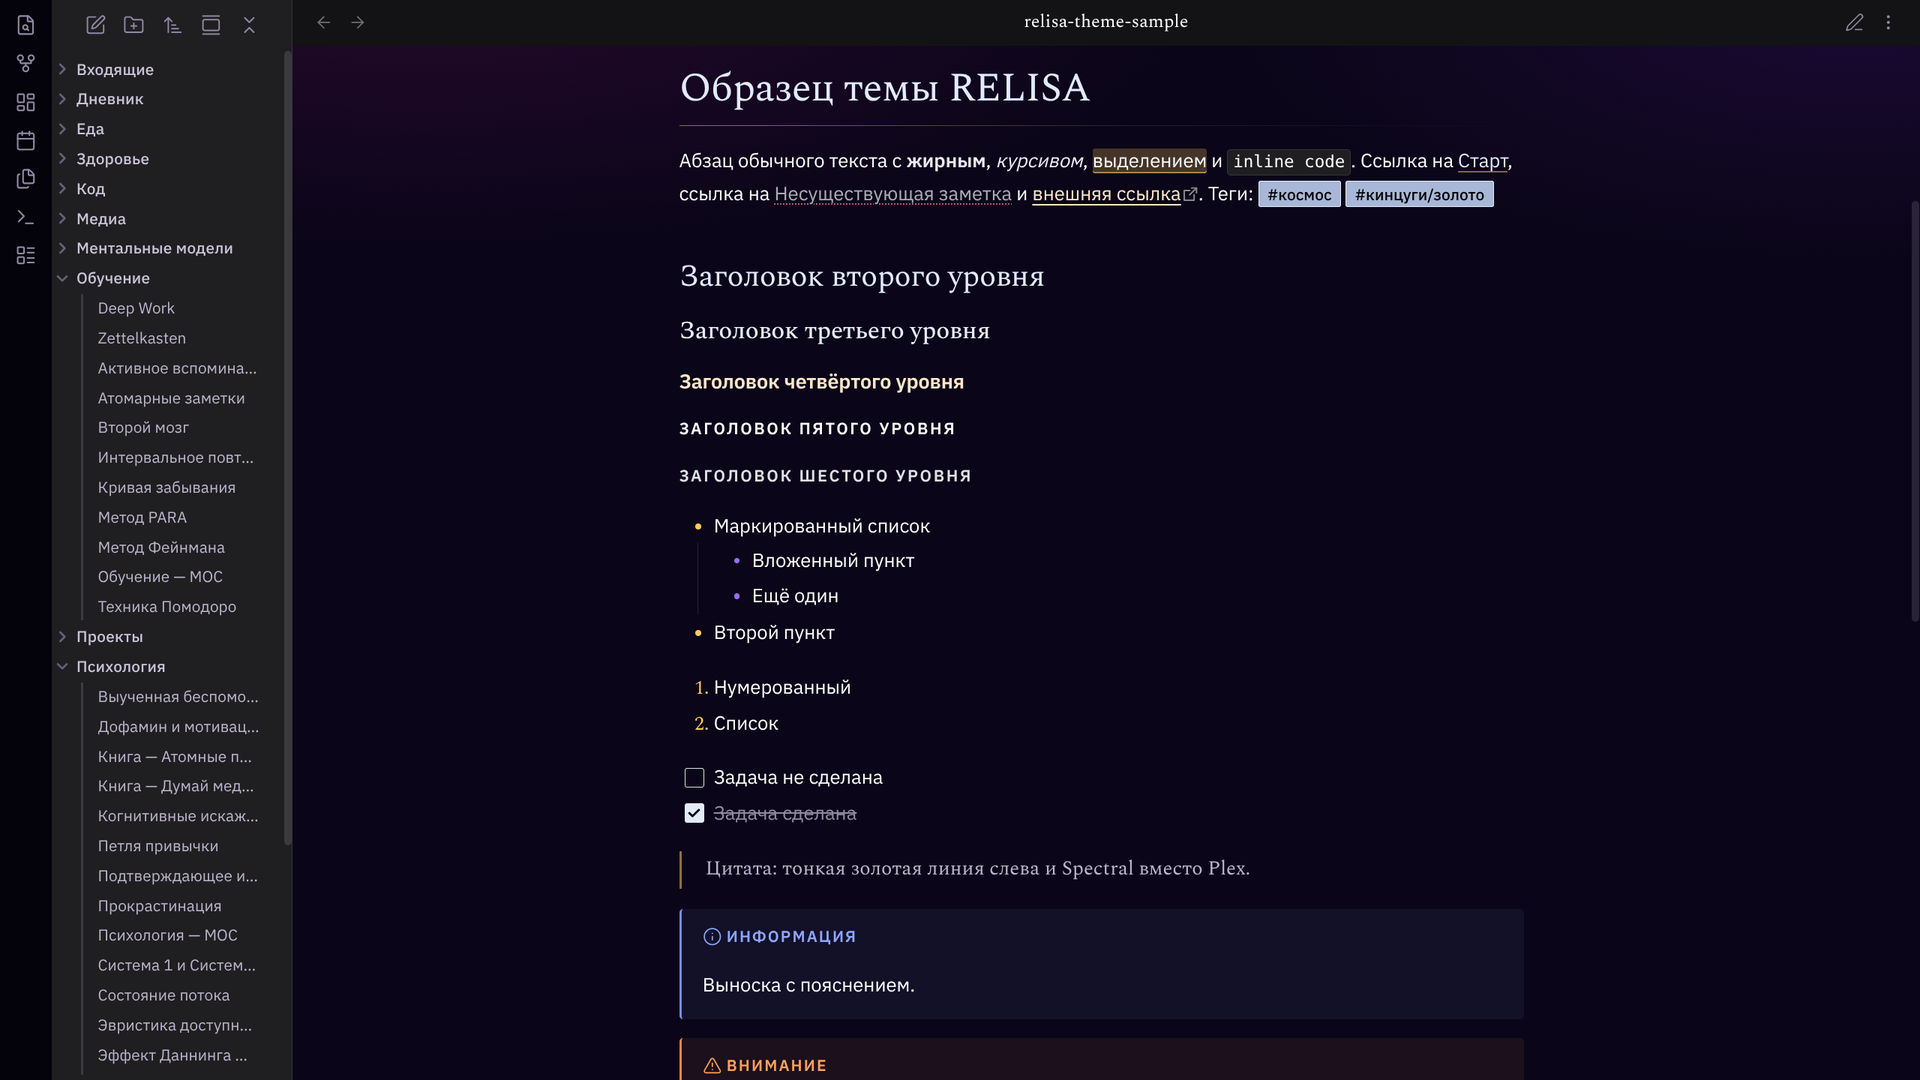
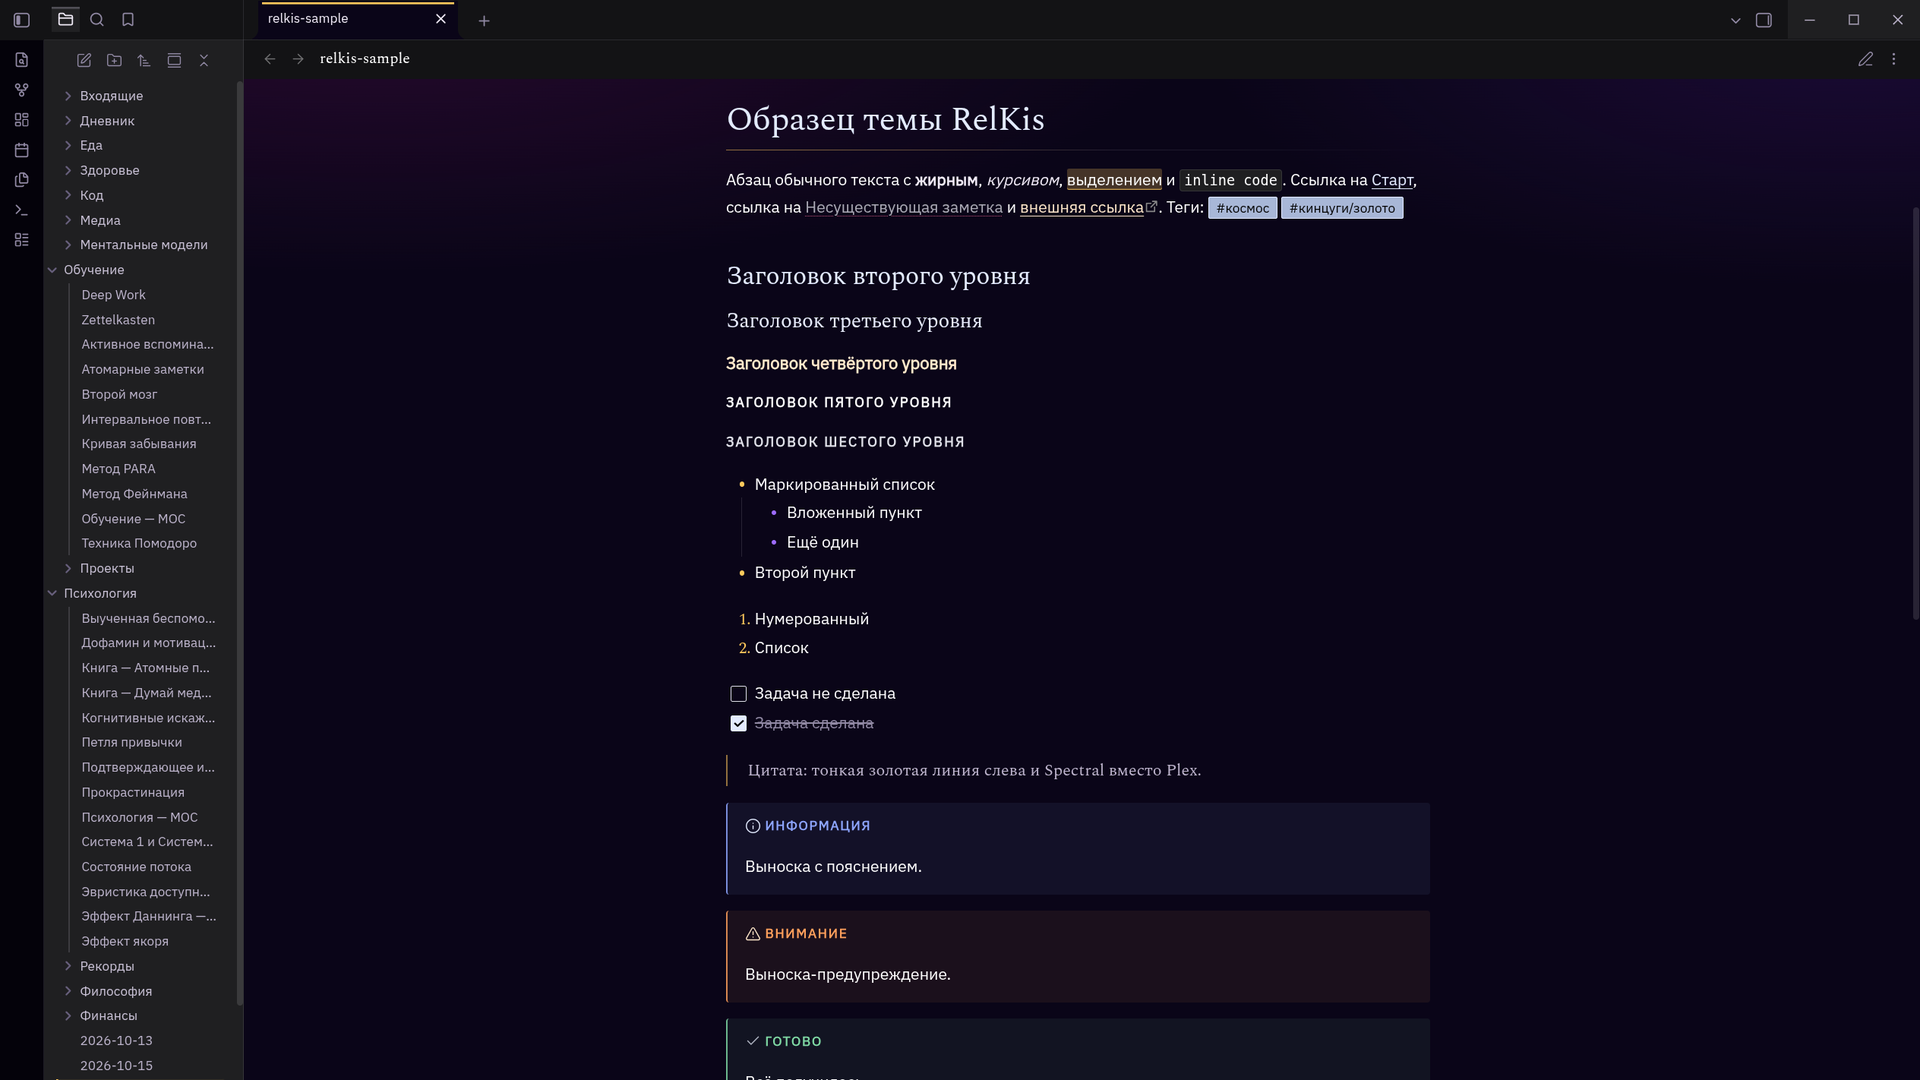
RelKis: README and screenshots show the new name

diff --git a/README.md b/README.md
@@ -8,7 +8,7 @@ Washi: rice paper, ink and cinnabar.
 ## What it covers
 
 - **Notes.** Spectral headings, IBM Plex Sans text, gold links, a quote with a thin gold line, callouts, code,
-  tables, tags and properties. Two extra callouts: `> [!relisa]` and `> [!kintsugi]`.
+  tables, tags and properties. Two extra callouts: `> [!relkis]` and `> [!kintsugi]`.
 - **Window.** A gold line on the active tab, the ribbon, the file explorer, a status bar of its own, menus, settings,
   the command palette, notices and the empty state.
 - **Vault sections.** Top-level folders named `0. …` to `9. …` each get a colour, with a thin line along an open
@@ -33,7 +33,7 @@ New versions are published as GitHub releases, and Obsidian offers them as theme
 
 ## Looks
 
-Dark mode is Cosmos and light mode is Washi. The companion RELISA Nebula plugin (not public yet) can switch between
+Dark mode is Cosmos and light mode is Washi. A companion plugin (not public yet) can switch between
 more looks: Ink Cosmos, Kintsugi, and Washi in dark mode. The theme is complete without it.
 
 ## Fonts
